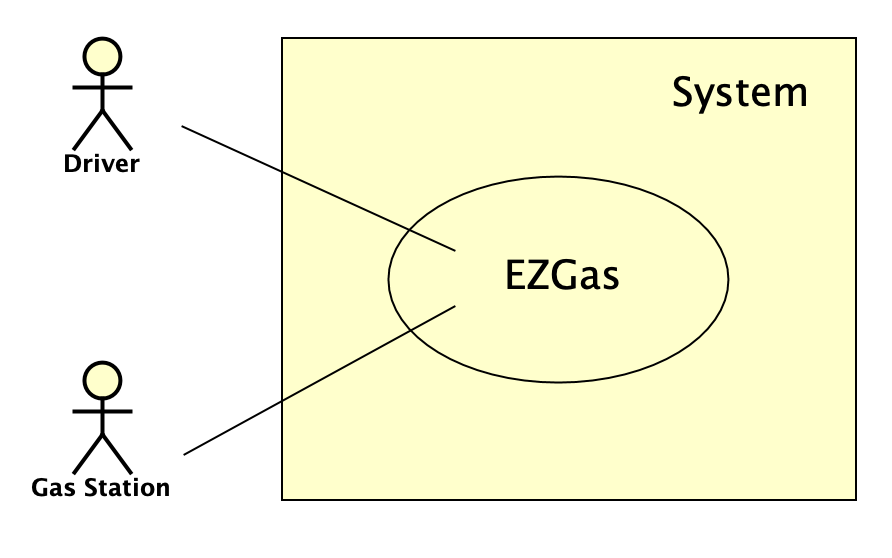
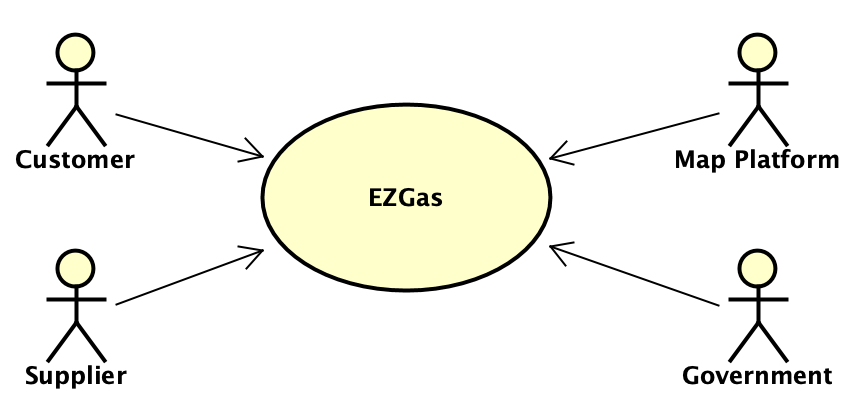
Added files for Lab3

diff --git a/REQ_s271961.md b/REQ_s271961.md
@@ -2,15 +2,15 @@
 
 Author: Gabriel Ganzer
 
-Date: 29/03/2020
+Date: 05/04/2020
 
-Version: 1
+Version: 2
 
 Change history
 
 | Version | Changes | 
 | ----------------- |:-----------|
-| | |
+| 2 | Stakeholders were modified, therefore, implicating modifications throughout the whole document. Glossary section was included.|
 
 # Contents
 - [Abstract](#abstract)
@@ -28,8 +28,6 @@ Change history
 	+ [Use cases](#use-cases)
 	+ [Relevant scenarios](#relevant-scenarios)
 - [Glossary](#glossary)
-- [System design](#system-design)
-- [Deployment diagram](#deployment-diagram)
 
 # Abstract
 
@@ -39,10 +37,10 @@ EZGas is a crowdsourcing service that allows users to collect prices of fuels in
 
 | Stakeholder name  | Description | 
 | ----------------- |:-----------:|
-| Customers | Use the application directly. They are interested in finding nearby gas stations offering the best prices. They are also interested in maintaining information about those gas stations up-to-date.| 
-| Suppliers | Might use the application directly. They are interested in the correct representation of their offering as well as their precise location.|
+| Customer | Use the application directly. They are interested in finding nearby gas stations offering the best prices. They are also interested in maintaining information about those gas stations up-to-date.| 
+| Supplier | Might use the application directly. They are interested in the correct representation of their offering and precise location, as well as using the service for checking their competition.|
 | Government | Do not use the application directly. They are interested in assuring that laws regarding the user's privacy are being strictly followed. |
-| Developers | Use the application directly. They are interested in the application correctness as well as responding to future maintenance. |
+| Maps Platform | Do not use the application directly. Third-party application used for displaying map, place details, geocoding, and geolocation. |
 
 # Context Diagram and interfaces
 
@@ -53,15 +51,19 @@ EZGas is a crowdsourcing service that allows users to collect prices of fuels in
 ## Interfaces
 | Actor | Logical Interface | Physical Interface  |
 | ------------- |:-------------:| -----:|
-| Driver |GUI |Screen, keyboard|
-| Gas Station |GUI |Screen, keyboard|
+| Customer | GUI | Screen, keyboard |
+| Supplier | GUI | Screen, keyboard |
+| Government | None | Documentation, reports |
+| Maps Platform | Web Services | Internet Connection |
 
 # Stories and personas
 John Doe has decided to travel across the country by car on his vacation.  At one point, he sees that his vehicle is almost out of fuel, so he stops at the first gas station he can reach from the driveway and fill up the tank. When he's driving out, he receives a notification from EZGas asking him to confirm that he was recently at Gas Station X, as well as their prices. He spends a few seconds filling that information before continuing his trip.
 
-Mary Jane is traveling around the same area as John Doe after a few weeks he passed by there. She does not know this area, so she uses EZGas to find a nearby station to fill up her tank. She finds that Gas Station X is close to her location, also captivated by their prices, she decides to stop there. When she arrives at the station she sees that their current prices don't match those informed by the app, so she notifies these changes and drives to the next station offering better prices.
+Jane Doe is traveling around the same area as John Doe after a few weeks he passed by there. She is not familiar with this area, so she uses EZGas to find a nearby gas station to fill up her tank. She finds that Gas Station X is close to her location, captivated by their prices, she decides to stop there. When she arrives at the station she sees that their current prices don't match those informed by the app, so she notifies these changes and drives to the next station offering better prices.
 
-Gas Station Y had recently opened in the same are of Gas Station X, being aware of the EZGas app, they log in with a company account and create a profile for their station to attract new customers.
+Gas Station Y had recently opened in the same area of Gas Station X, aware of the EZGas app, they immediately fill in the details about their services. The administrator of Gas Station X then uses EZGas to check if their competitors are offering better prices. The administrator then uses his or her account to change the details of Gas Station X after lowering their prices.
+
+When opening EZGas, the user has the option of entering its current location manually or via geolocation services. A map containing all gas stations within a 1 km radius would then be displayed on the user's screen afterward. The user could then select one of the pins representing those gas stations to reveal the details about them. Only signed up users can claim modifications in those details. When the service recognizes that another signed up user has visited that gas station, it would ask that user to check and confirm that claim. After a certain number of replies, the system would then record any modification if necessary.
 
 # Functional and non functional requirements
 
@@ -69,27 +71,26 @@ Gas Station Y had recently opened in the same are of Gas Station X, being aware 
 
 | ID        | Description  |
 | ------------- |:-------------:| 
-|  FR1     | Record data of n gas stations. |
-|  FR2     | Report all recorded stations within an area. |
-|  FR3     | Recognize that a customer has been recently to a gas station. |
-|  FR4     | Notify customers to check data from a gas station. |
-|  FR5     | Record changes reported by users. |
-|  FR6     | Manage profiles from personal and company accounts.|
+|   FR1 | Display all gas stations within an area. |
+|   FR2 | Allow only signed up users to modify details about gas stations. |
+|   FR3 | Notify users that had been to a gas station with a registered claim. |
+|   FR4 | Record modifications after n users replied to the survey. |
+|   FR5 | Manage profiles. |
 
 ## Non Functional Requirements
 
 | ID        | Type | Description  | Refers to |
 | ------------- |:-------------:| :-----:| -----:|
-| NFR1 | Functionality   | All recorded stations of a given area must be reported  | FR2 |
+| NFR1 | Functionality   | All recorded stations within a 1 km radius from the user's location must be displayed in the map | FR1 |
 | NFR2 | Reliability     | Application should maintain the information about gas stations always up-to-date.  | All FR |
-| NFR3 | Reliability     | User's privacy must not be violated as well as their personal data must be carefully protected.  | All FR |
-| NFR4 | Efficiency      | Search of stations should be as fast as possible. | FR2 |
-| NFR5 | Efficiency      | Notification form must be simple and easy to fill in, not taking more than a few seconds. | FR4 |
-| NFR6 | Usability      | The application has to be intuitive for all users, with a friendly interface. | All FR |
-| NFR6 | Portability     | The application runs on both desktop and mobile versions. | All FR |
-| NFR7 | Maintainability | Modifications reported from a user must be checked by others before reporting them. | FR4 - FR6 |
-| NFR8 | Localization    | Decimal numbers use . (dot) as decimal separator. |
-| NFR9 | Localization    | The application should support different currencies. |
+| NFR3 | Reliability     | System should not make distinctions beetwen unsigned and signed users regarding their privacy and data, information about their geolocation must not be shared without their concent. | All FR |
+| NFR4 | Reliability     | System must ask at least 10 signed users to confirm a claim made by another user before recording the modifications reported. | FR3 - FR4 |
+| NFR5 | Efficiency      | Response from third-party API that displays those gas stations to the user should be as fast as possible. | FR1 |
+| NFR6 | Efficiency      | The survey must be simple and easy to reply, not taking more than a few seconds. | FR3 |
+| NFR7 | Usability      | The application has to be intuitive for all users, with a friendly interface. | All FR |
+| NFR8 | Portability     | The application runs on both desktop and mobile versions. | All FR |
+| NFR9 | Localization    | Decimal numbers use . (dot) as decimal separator. |
+| NFR10 | Localization    | The application should support different currencies. |
 
 # Use case diagram and use cases
 
@@ -99,62 +100,50 @@ Gas Station Y had recently opened in the same are of Gas Station X, being aware 
 
 ## Use Cases
 
-### Use case 1, UC1 - FR1  Record data of n gas stations
-
-| Actors Involved        | Supplier, Customer|
-| ------------- |:-------------:| 
-|  Precondition     | Gas station G exists physically |  
-|  Postcondition     | G.CompanyAccount.area_post = coordinates |
-| | G.CompanyAccount.price_post = price |
-|  Nominal Scenario     | Gas station is registered in the system database, within its physical location and prices |
-|  Variants     |  |
-
-### Use case 2, UC2 - FR2 Report all recorded stations within an area
+### Use case 1, UC1 - FR1 Display all gas stations within an area.
 
 | Actors Involved        | Developer |
 | ------------- |:-------------:| 
-|  Precondition     | Gas station G exists |  
-|  Postcondition   | GUI.area_post > G.CompanyAccount.area_pre |
-|  Nominal Scenario     | The application presents to the user every gas stations located within the boundaries that the user has established in the search|
-|  Variants     |  |
+|  Precondition    | Gas station G exists in Maps Platform |  
+|  Postcondition   | GUI.area_post = API.area_pre |
+|  Nominal Scenario     | The application displays to the user every gas station within a 1 km radius from users location|
+|  Variants     | Gas station does not exist in the database and must be created by a signed up user |
 
-### Use case 3, UC3 - FR3 Recognize that a customer has been recently to a gas station
+### Use case 2, UC2 - FR2 Allow only signed up users to modify details about gas stations.
 
 | Actors Involved        | Developer |
 | ------------- |:-------------:| 
-|  Precondition     | Driver D exists, Gas station G exists|  
-|  Post condition     | D.PersonalAccount.area_pre = G.CompanyAccount.area_pre |
-|  Nominal Scenario     | Using GPS location from the user, the application recognizes that this user has been recently to one registered gas station|
-|  Variants     |  User has disabled live sharing location in its device|
+|  Precondition     | User U is logged in, Gas station G exists|  
+|  Post condition   | G.info_pre = U.info_post |
+|  Nominal Scenario     | User register a claim to a certain gas station requiring details to be modified |
+|  Variants     | |
 
-### Use case 4, UC4 - FR4 Notify customers to check data from a gas station
+### Use case 3, UC3 - FR3 Notify users that had been to a gas station with a registered claim.
 
 | Actors Involved        | Developer, Government |
 | ------------- |:-------------:| 
-|  Precondition     | Driver D exists, privacy laws|  
-|  Post condition   | |
-|  Nominal Scenario     | Any data from users must be treated according to the privacy laws imposed by the local government entity|
-|  Variants     |  User has disabled notifications in its device|
+|  Precondition     | User U is logged in, sharing its live location with EZGas, as well as notifications enabled |  
+|  Post condition   | Survey display|
+|  Nominal Scenario     | System recognizes that user has been to a gas station containing a claim, asking for this user to take a survey|
+|  Variants     |  User has disabled notifications, it's not live sharing its geolocation, or even deny the request for taking the survey |
 
-### Use case 5, FR5  Record changes reported by users
+### Use case 4, UC4 - FR4 Record modifications after n users replied to the survey.
 
 | Actors Involved        | Customer, Supplier  |
 | ------------- |:-------------:| 
-|  Precondition     | Driver D exists, Gas station G exists |  
-|  Post condition     | G.CompanyAccount.area_post = D.PersonalAccount.area_pre |
-| | G.CompanyAccount.price_post = D.PersonalAccount.price_pre |
-|  Nominal Scenario     | Driver checks and confirms the location of a recently visited gas station, as well as the prices offered by that supplier|
-|  Variants     | Drives skips checking procedure|
+|  Precondition     | Gas Station G received a recent claim |  
+|  Post condition   | Details about G are recorded in database |
+|  Nominal Scenario | 10 signed up users responded to the survey and system register any modification that was reported|
+|  Variants     | Not enough users take the survey|
 
-### Use case 6, FR6 Manage profiles
+### Use case 5, UC5 - FR5 Manage profiles
 
 | Actors Involved        | Developer |
 | ------------- |:-------------:| 
 |  Precondition     |  |  
 |  Post condition     |  |
-|  Nominal Scenario     | Application must be able to manage a certain number of profiles, creating new ones or deleting them when necessary|
+|  Nominal Scenario     | Application must be able to manage a certain number of profiles, creating new ones or deleting them when necessary, as well as respecting their privacy and the safety of their data|
 |  Variants     | |
-
 
 # Relevant scenarios
 
@@ -162,52 +151,43 @@ Gas Station Y had recently opened in the same are of Gas Station X, being aware 
 
 | Scenario ID: SC1        | Corresponds to UC1  |
 | ------------- |:-------------| 
-| Description | Gas station is registered in database|
-| Precondition |  account G is created |
-| Postcondition |  details of account G are recorded |
+| Description | Gas Stations around user's location are displayed in the map |
+| Precondition | Maps Platform has n gas stations registered in that area |
+| Postcondition | Screen map display all gas stations reported by Maps Platform |
 | Step#        |  Step description   |
-|  1     | System creates a new company profile for G |  
-|  2     | Entry physical coordinates of G |
-|  3     | Entry price offers of G  |
-| 4      | Profile G is recorded in the database and made public |
+|  1     | User share its location either manually or geolocation service |  
+|  2     | EZGas send that information to Maps Platform |
+|  3     | Maps Platform processes the address and responds with the gas stations it has found |
+| 4      | Screen map on EZGas application displays a pin representing each gas station |
 
 ## Scenario 2
 
 | Scenario ID: SC2        | Corresponds to UC2  |
 | ------------- |:-------------| 
-| Description | Driver searches for a gas station around its location |
-| Precondition |  n accounts G have their coordinates within that boundaries |
-| Postcondition |  GUI presents all G accounts in that area |
+| Description | Only signed up users have the register claim option enabled |
+| Precondition | User is signed up and logged in |
+| Postcondition | Claim to a gas station is reported to the system |
 | Step#        | Step description  |
-|  1     | Driver temporarily shares its location with the system |  
-|  2     | System delimitates a square area around the driver's location |
-|  3     | System searches in the database any G with coordinates that match |
-|  4     | System presents to driver all G matches |
+|  1     | User signs up filling up a form with its data and logs in |  
+|  2     | User selects in the map the gas station that wants to register a claim |
+|  3     | User report error or modifications it wants to suggest regarding gas station's offering or location |
+|  4     | System register the claim |
 
 ## Scenario 3
 
-| Scenario ID: SC3        | Corresponds to UC3  |
+| Scenario ID: SC3        | Corresponds to UC3 and UC4  |
 | ------------- |:-------------| 
-| Description | System recognizes that the driver is currently or has been recently to a gas station|
-| Precondition | live location of D is shared with the system |
-| Postcondition | coordinates of D match coordinates of G  |
+| Description | System recognizes that 10 logged in users have been recently to a gas station that has a registered claim |
+| Precondition | Users share their live location with EZGas and have notifications enabled |
+| Postcondition | Responses of 10 surveys are matched and suggested modifications are recorded in database |
 | Step#        | Step description  |
-|  1     | Driver shares its live location |  
-|  2     | System constantly searches for a G that matches D coordinates |
-|  3     | If a match is found notification procedure is called |
-|  4     | If no match is found D coordinates are retrieved again |
+|  1     | System recognizes that user's live location matches the coordinates of a gas station containing a claim |  
+|  2     | System asks that user if it's willing to take a survey in order to confirm the claim |
+|  3     | System would notify any other user that visits that gas station until the sufficient number of surveys were not responded|
+|  4     | System matches the responses of those 10 users |
+|  5     | Modifications suggested by users are then recorded in the databse |
 
-## Scenario 4
+# Glossary
 
-| Scenario ID: SC4        | Corresponds to UC4 and UC5  |
-| ------------- |:-------------| 
-| Description | Driver is asked to confirm details about a gas station|
-| Precondition | coordinates of D match coordinates of G |
-| Postcondition | details of G are updated  |
-| Step#        | Step description  |
-|  1     | Pop-up notification is presented to driver |  
-|  2     | System asks D to check G location |
-|  3     | System asks D to check G prices |
-|  4     | System check if entries of D are different from those recorded in G |
-|  5     | System update details of G if necessary |
+![](https://github.com/gabrielganzer/Lab2/blob/master/glossary.png)
 
